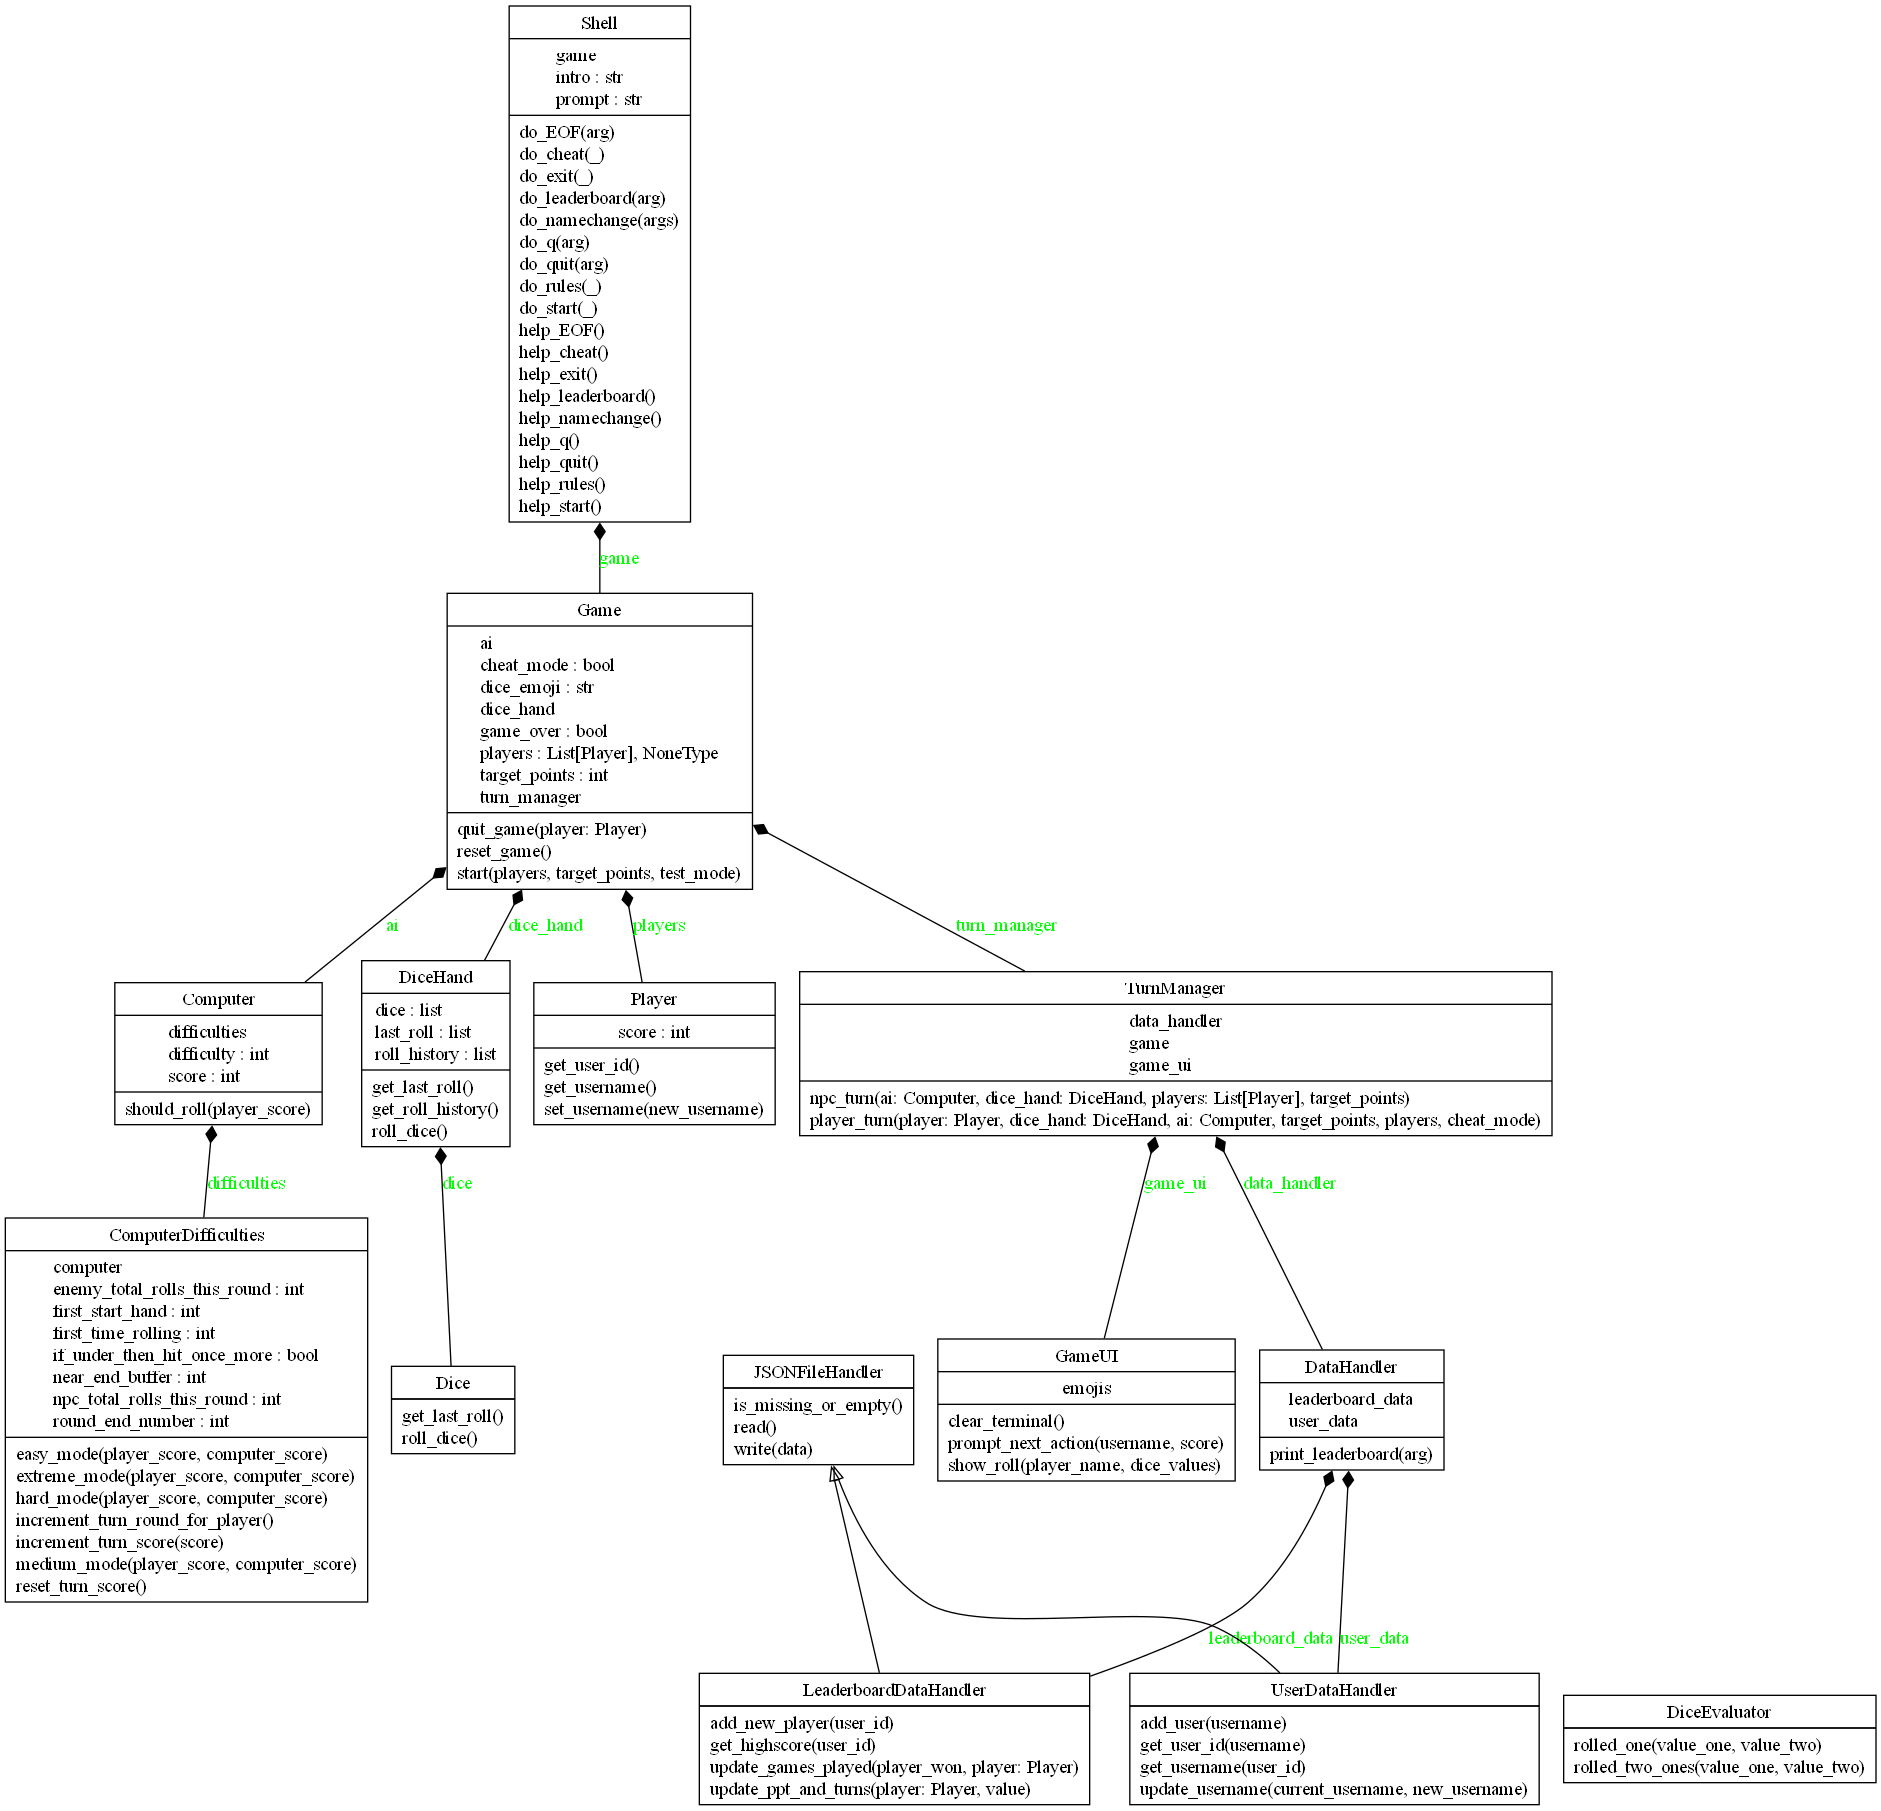
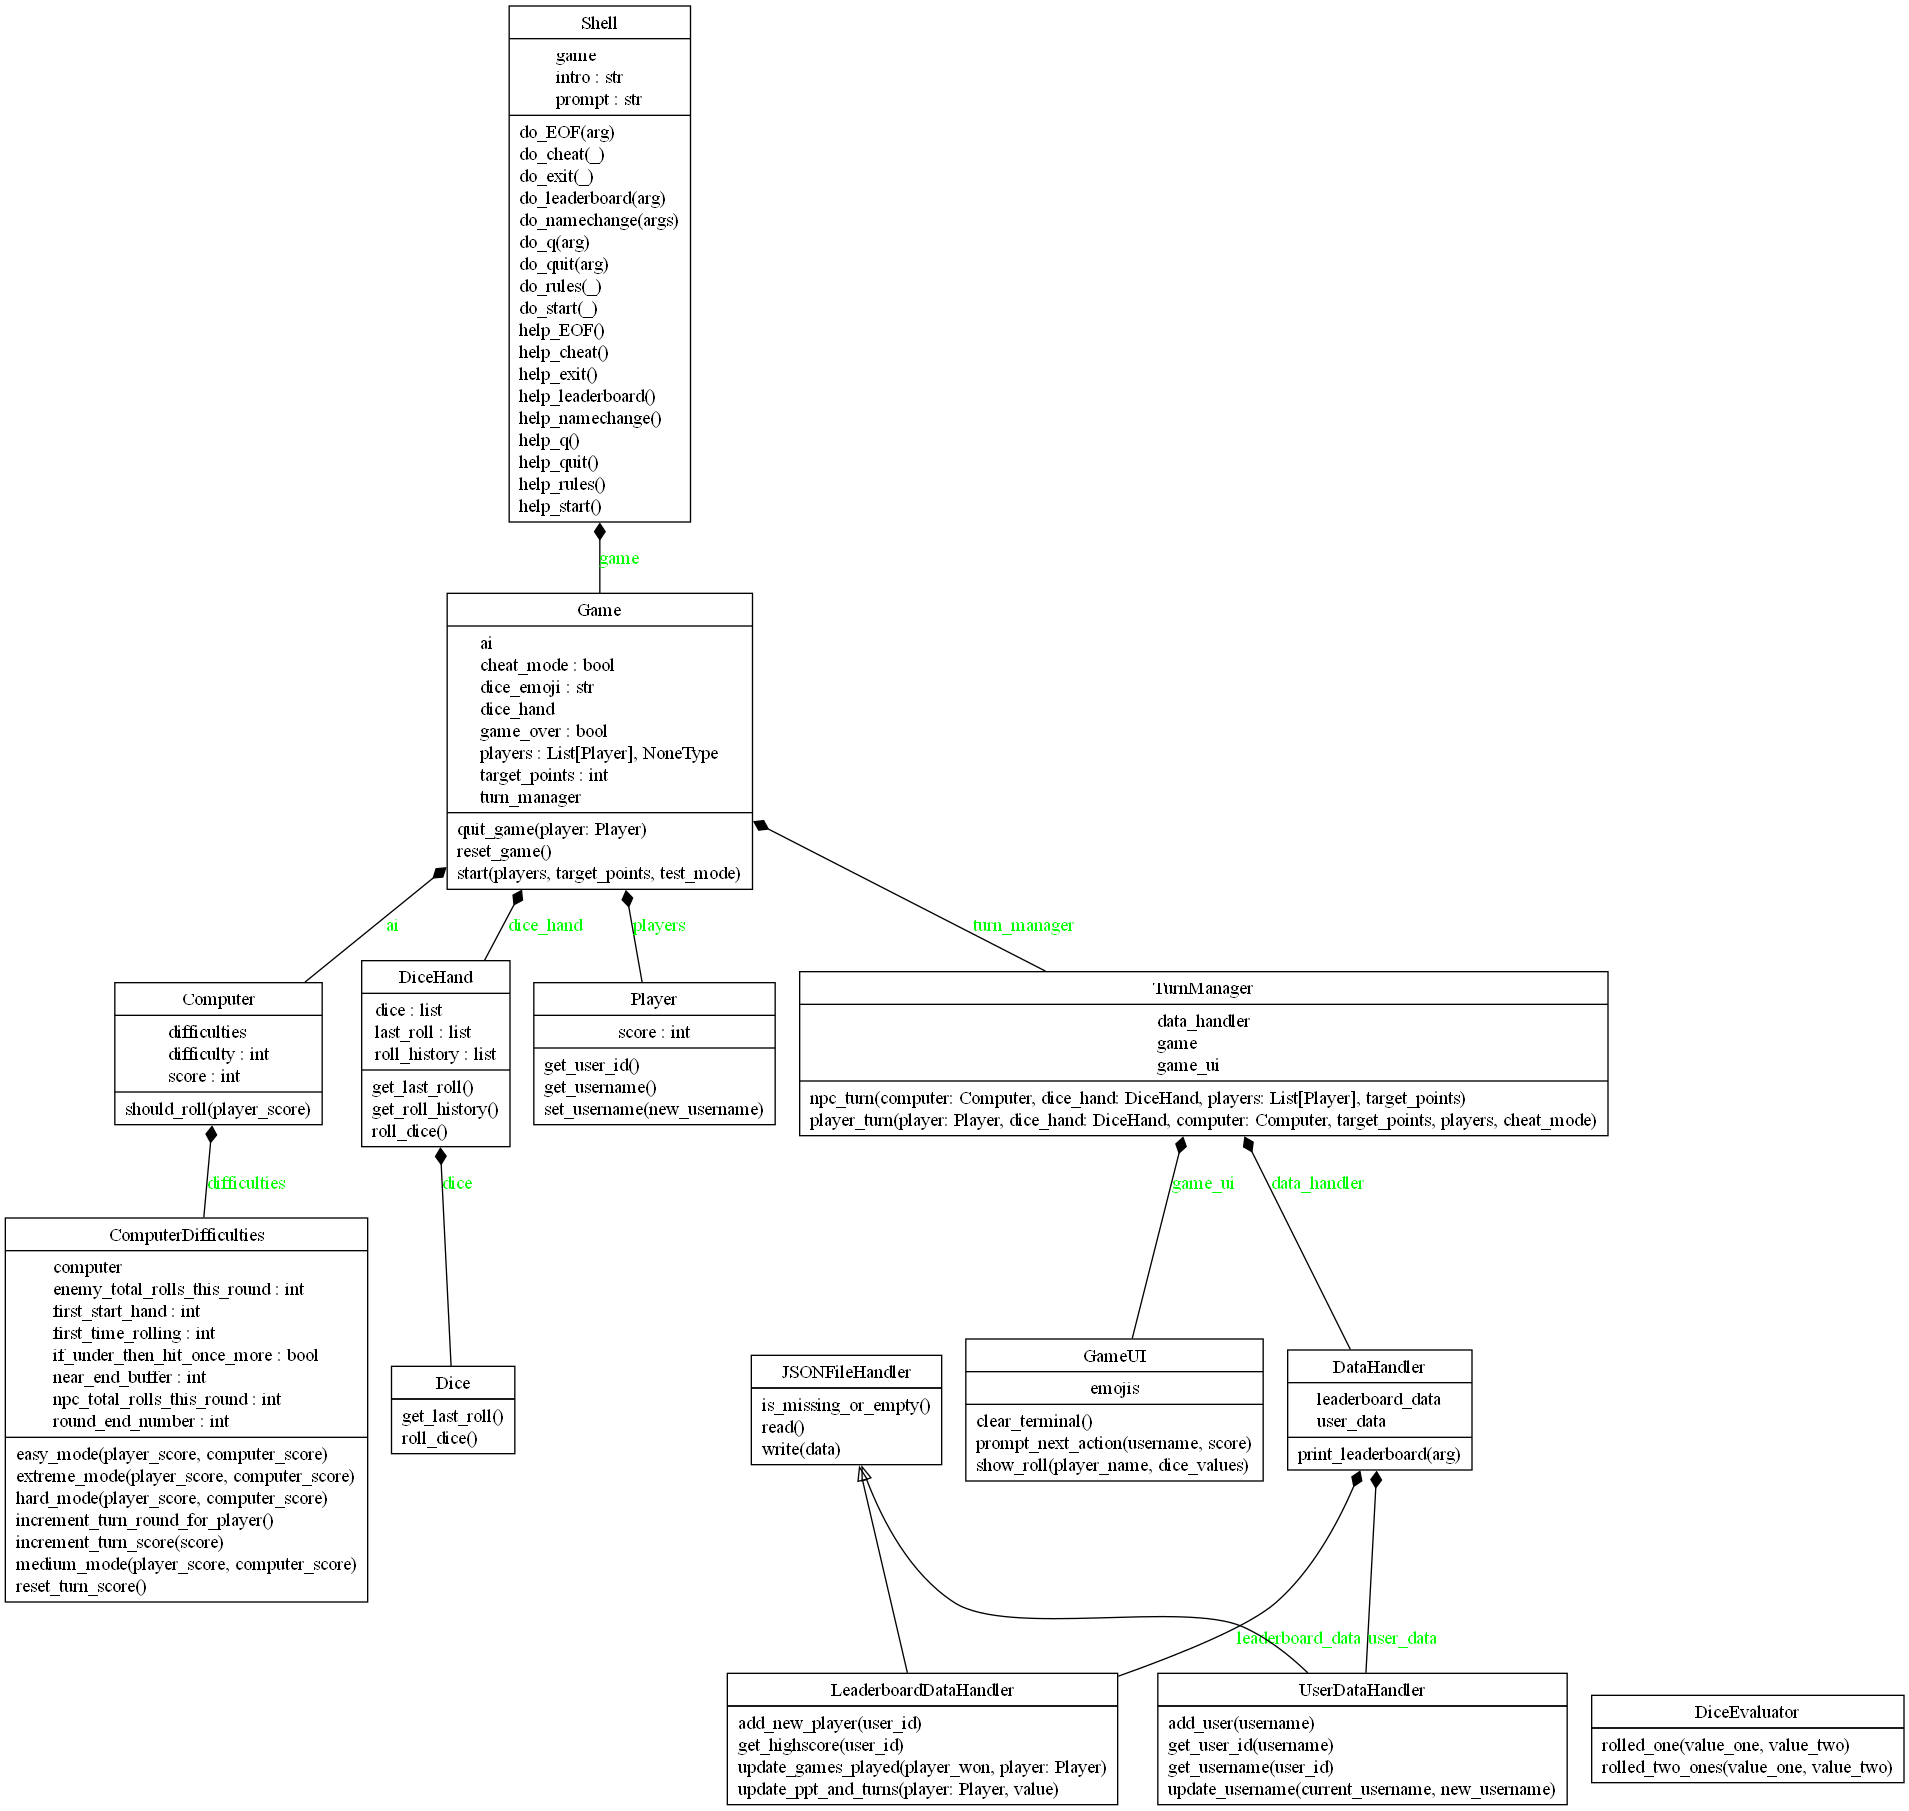
Fixed removing temp file from test_game.py, change ai name to computer

diff --git a/test/test_game.py b/test/test_game.py
@@ -3,6 +3,7 @@
 
 """Unit testing."""
 
+import shutil
 import unittest
 import os
 from pig_game.game.game import Game
@@ -14,14 +15,14 @@ class TestGameClass(unittest.TestCase):  # noqa : H601
 
     def test_init_default_object(self):
         """Instantiate an object and check its properties."""
-        self.test_dir = "./guess/TestGameData"
+        self.test_dir = "./pig_game/TestGameData"
         res = Game(dir_path=self.test_dir)
         exp = Game
         self.assertIsInstance(res, exp)
 
     def test_start_the_game(self):
         """Roll a dice and check value is in bounds."""
-        self.test_dir = "./guess/TestGameData"
+        self.test_dir = "./pig_game/TestGameData"
         the_game = Game(dir_path=self.test_dir)
         the_game.turn_manager.data_handler.user_data.add_user("testuser")
         players = []
@@ -34,41 +35,49 @@ class TestGameClass(unittest.TestCase):  # noqa : H601
         the_game.start(players, 100, True)
 
         self.assertTrue(True)
-        os.remove(self.test_dir + "/UserData.json")
-        os.rmdir(self.test_dir)
+        shutil.rmtree(self.test_dir)
 
     def test_ai_should_roll(self):
         """Tests if npc turn declines and score remain unchanged."""
-        test_game = Game()
-        test_game.players = [Player("test_name", 1)]
+        self.test_dir = "./pig_game/TestGameData"
+        test_game = Game(dir_path=self.test_dir)
+        test_game.turn_manager.data_handler.user_data.add_user("test_name")
+        userid = test_game.turn_manager.data_handler.user_data.get_user_id("test_name")
+        test_game.turn_manager.data_handler.leaderboard_data.add_new_player(userid)
+        test_game.players = [Player("test_name", userid)]
         test_game.players[0].score = 2
 
-        test_game.ai.should_roll = lambda *_: False
+        test_game.computer.should_roll = lambda *_: False
 
         roll_dice_flag = {"Called": False}
         test_game.dice_hand.roll_dice = lambda: roll_dice_flag.__setitem__(
             "Called", True
         )
         test_game.turn_manager.npc_turn(
-            test_game.ai,
+            test_game.computer,
             test_game.dice_hand,
             test_game.players,
             test_game.target_points,
         )
 
         self.assertFalse(roll_dice_flag["Called"])
-        self.assertEqual(test_game.ai.score, 0)
+        self.assertEqual(test_game.computer.score, 0)
+        shutil.rmtree(self.test_dir)
 
     def test_npc_hand_roll(self):
         """Tests if npc hand rolls correctly."""
-        test_game = Game()
-        test_game.players.append(Player("test_name", 1))
+        self.test_dir = "./pig_game/TestGameData"
+        test_game = Game(dir_path=self.test_dir)
+        test_game.turn_manager.data_handler.user_data.add_user("test_name")
+        userid = test_game.turn_manager.data_handler.user_data.get_user_id("test_name")
+        test_game.turn_manager.data_handler.leaderboard_data.add_new_player(userid)
+        test_game.players = [Player("test_name", userid)]
         test_game.players[0].score = 0
         test_game.target_points = 0
 
-        test_game.ai.should_roll = lambda *_: True
+        test_game.computer.should_roll = lambda *_: True
         test_game.turn_manager.npc_turn(
-            test_game.ai,
+            test_game.computer,
             test_game.dice_hand,
             test_game.players,
             test_game.target_points,
@@ -87,33 +96,38 @@ class TestGameClass(unittest.TestCase):  # noqa : H601
         test_game.turn_manager.player_turn(
             test_game.players[0],
             test_game.dice_hand,
-            test_game.ai,
+            test_game.computer,
             test_game.target_points,
             test_game.players,
             cheat_mode=True,
         )
-        self.assertEqual(test_game.ai.score, test_total_rolls)
+        self.assertEqual(test_game.computer.score, test_total_rolls)
+        shutil.rmtree(self.test_dir)
 
     def test_quit_game(self):
         """Test if the game quits properly."""
-        test_game = Game()
+        self.test_dir = "./pig_game/TestGameData"
+        test_game = Game(dir_path=self.test_dir)
         self.assertFalse(test_game.game_over)
         test_game.quit_game(Player("test_player", 1))
         self.assertTrue(test_game.game_over)
+        shutil.rmtree(self.test_dir)
 
     def test_reset_game(self):
         """Tests if the game resets properly."""
-        test_game = Game()
+        self.test_dir = "./pig_game/TestGameData"
+        test_game = Game(dir_path=self.test_dir)
         test_game.start([Player("test_player", 1)], 100, True)
-        test_game.ai.score = 10
-        self.assertEqual(10, test_game.ai.score)
+        test_game.computer.score = 10
+        self.assertEqual(10, test_game.computer.score)
         self.assertFalse(test_game.game_over)
         self.assertIsNotNone(test_game.players)
         test_game.game_over = True
         test_game.reset_game()
-        self.assertEqual(0, test_game.ai.score)
+        self.assertEqual(0, test_game.computer.score)
         self.assertFalse(test_game.game_over)
         self.assertIsNone(test_game.players)
+        shutil.rmtree(self.test_dir)
 
 
 if __name__ == "__main__":

diff --git a/pig_game/game/game.py b/pig_game/game/game.py
@@ -24,7 +24,7 @@ class Game:
         :param dir_path: Directory path, eg. './pig_game/GameData'.
         :type dir_path: :py:obj:`str`
         """
-        self.ai: Computer = Computer()
+        self.computer: Computer = Computer()
 
         self.players = Player(
             "", 0
@@ -38,7 +38,7 @@ class Game:
     def reset_game(self):
         """Ensure game is reset and has correct players when starting new game."""
         self.game_over = False
-        self.ai.score = 0
+        self.computer.score = 0
         self.players = None
 
     def quit_game(self, player: Player):
@@ -71,7 +71,7 @@ class Game:
         self.reset_game()
 
         self.target_points = target_points
-        self.ai.difficulties.round_end_number = target_points
+        self.computer.difficulties.round_end_number = target_points
         self.players = players
 
         # Decide who starts in a singleplayer game
@@ -81,7 +81,10 @@ class Game:
                     while not self.game_over:
                         print("")
                         self.turn_manager.npc_turn(
-                            self.ai, self.dice_hand, self.players, self.target_points
+                            self.computer,
+                            self.dice_hand,
+                            self.players,
+                            self.target_points,
                         )
                         if self.game_over:
                             break
@@ -89,7 +92,7 @@ class Game:
                         self.turn_manager.player_turn(
                             self.players[0],
                             self.dice_hand,
-                            self.ai,
+                            self.computer,
                             self.target_points,
                             self.players,
                             self.cheat_mode,
@@ -100,7 +103,7 @@ class Game:
                         self.turn_manager.player_turn(
                             self.players[0],
                             self.dice_hand,
-                            self.ai,
+                            self.computer,
                             self.target_points,
                             self.players,
                             self.cheat_mode,
@@ -109,7 +112,10 @@ class Game:
                             break
                         print("")
                         self.turn_manager.npc_turn(
-                            self.ai, self.dice_hand, self.players, self.target_points
+                            self.computer,
+                            self.dice_hand,
+                            self.players,
+                            self.target_points,
                         )
         else:
             current_user_index = random.randint(0, 1)
@@ -119,7 +125,7 @@ class Game:
                 self.turn_manager.player_turn(
                     self.players[current_user_index],
                     self.dice_hand,
-                    self.ai,
+                    self.computer,
                     self.target_points,
                     self.players,
                     self.cheat_mode,
